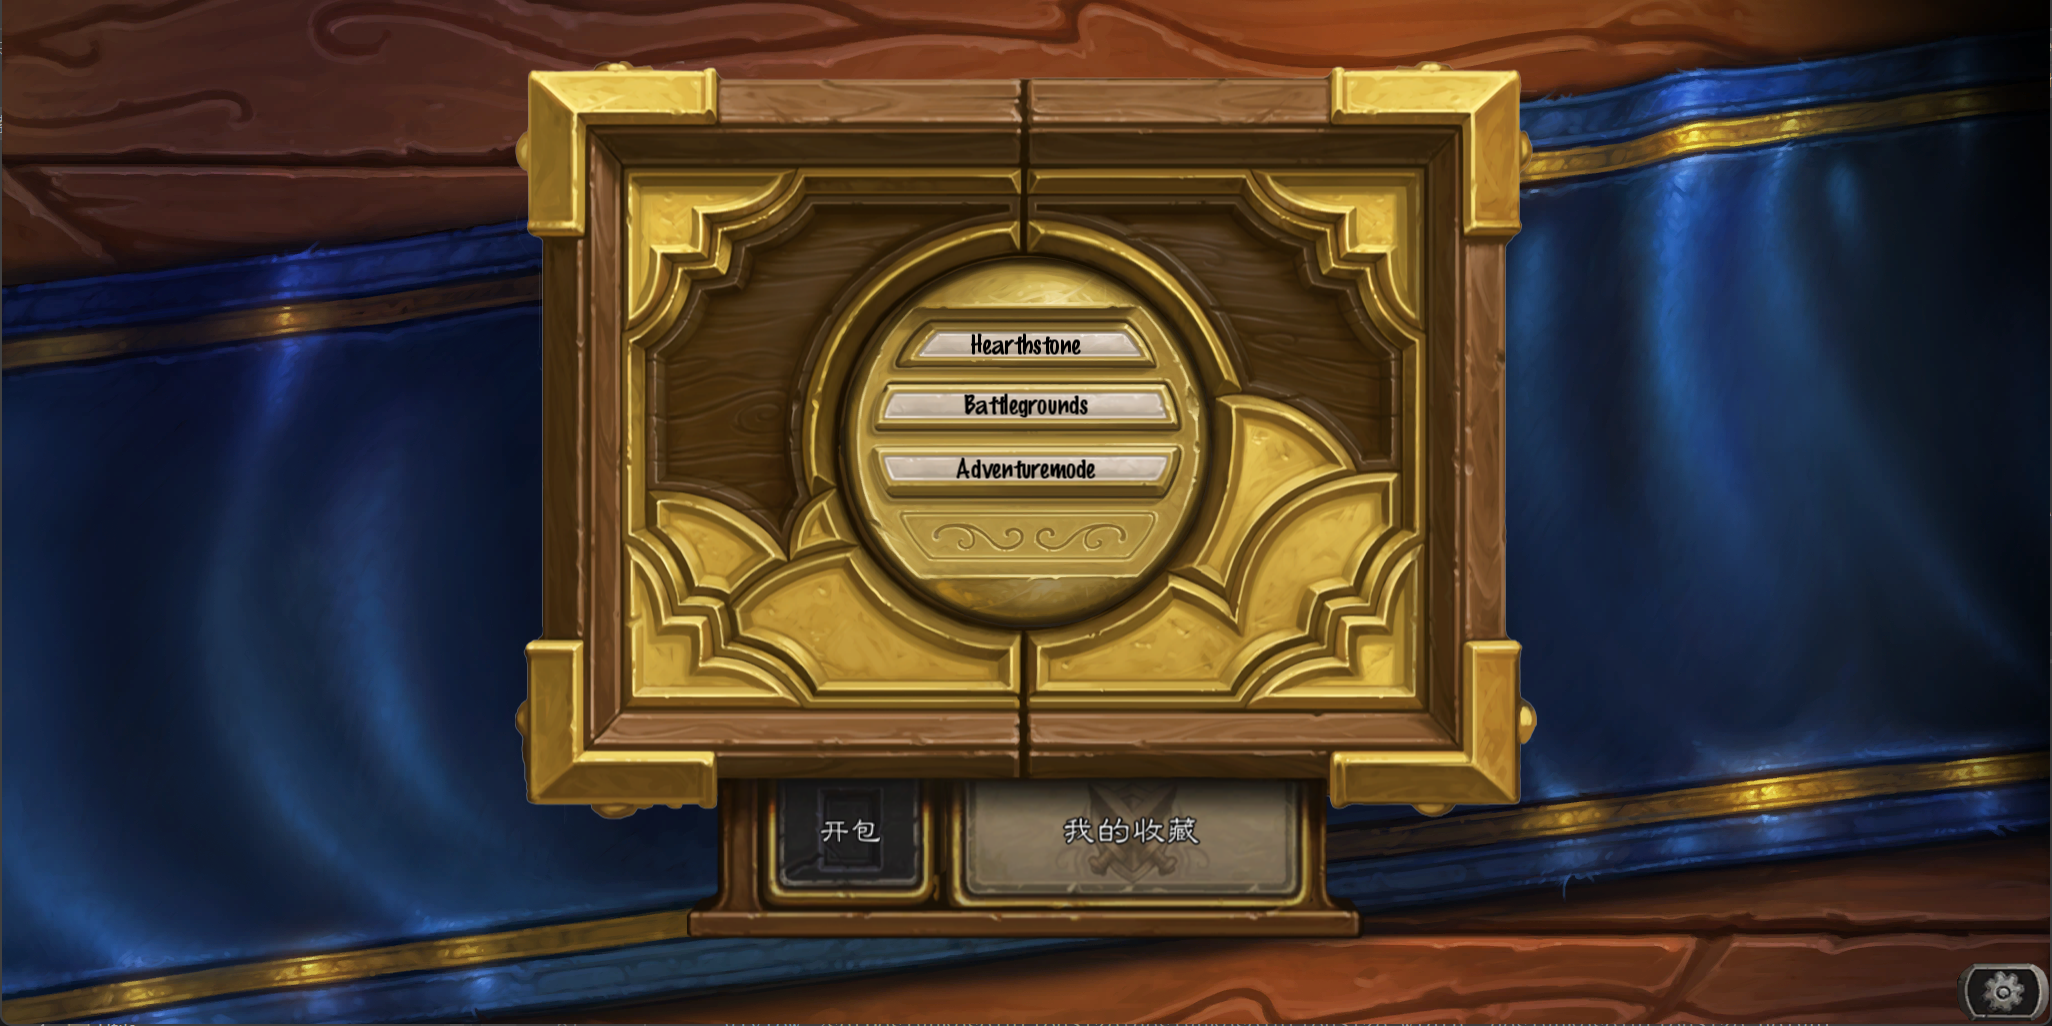
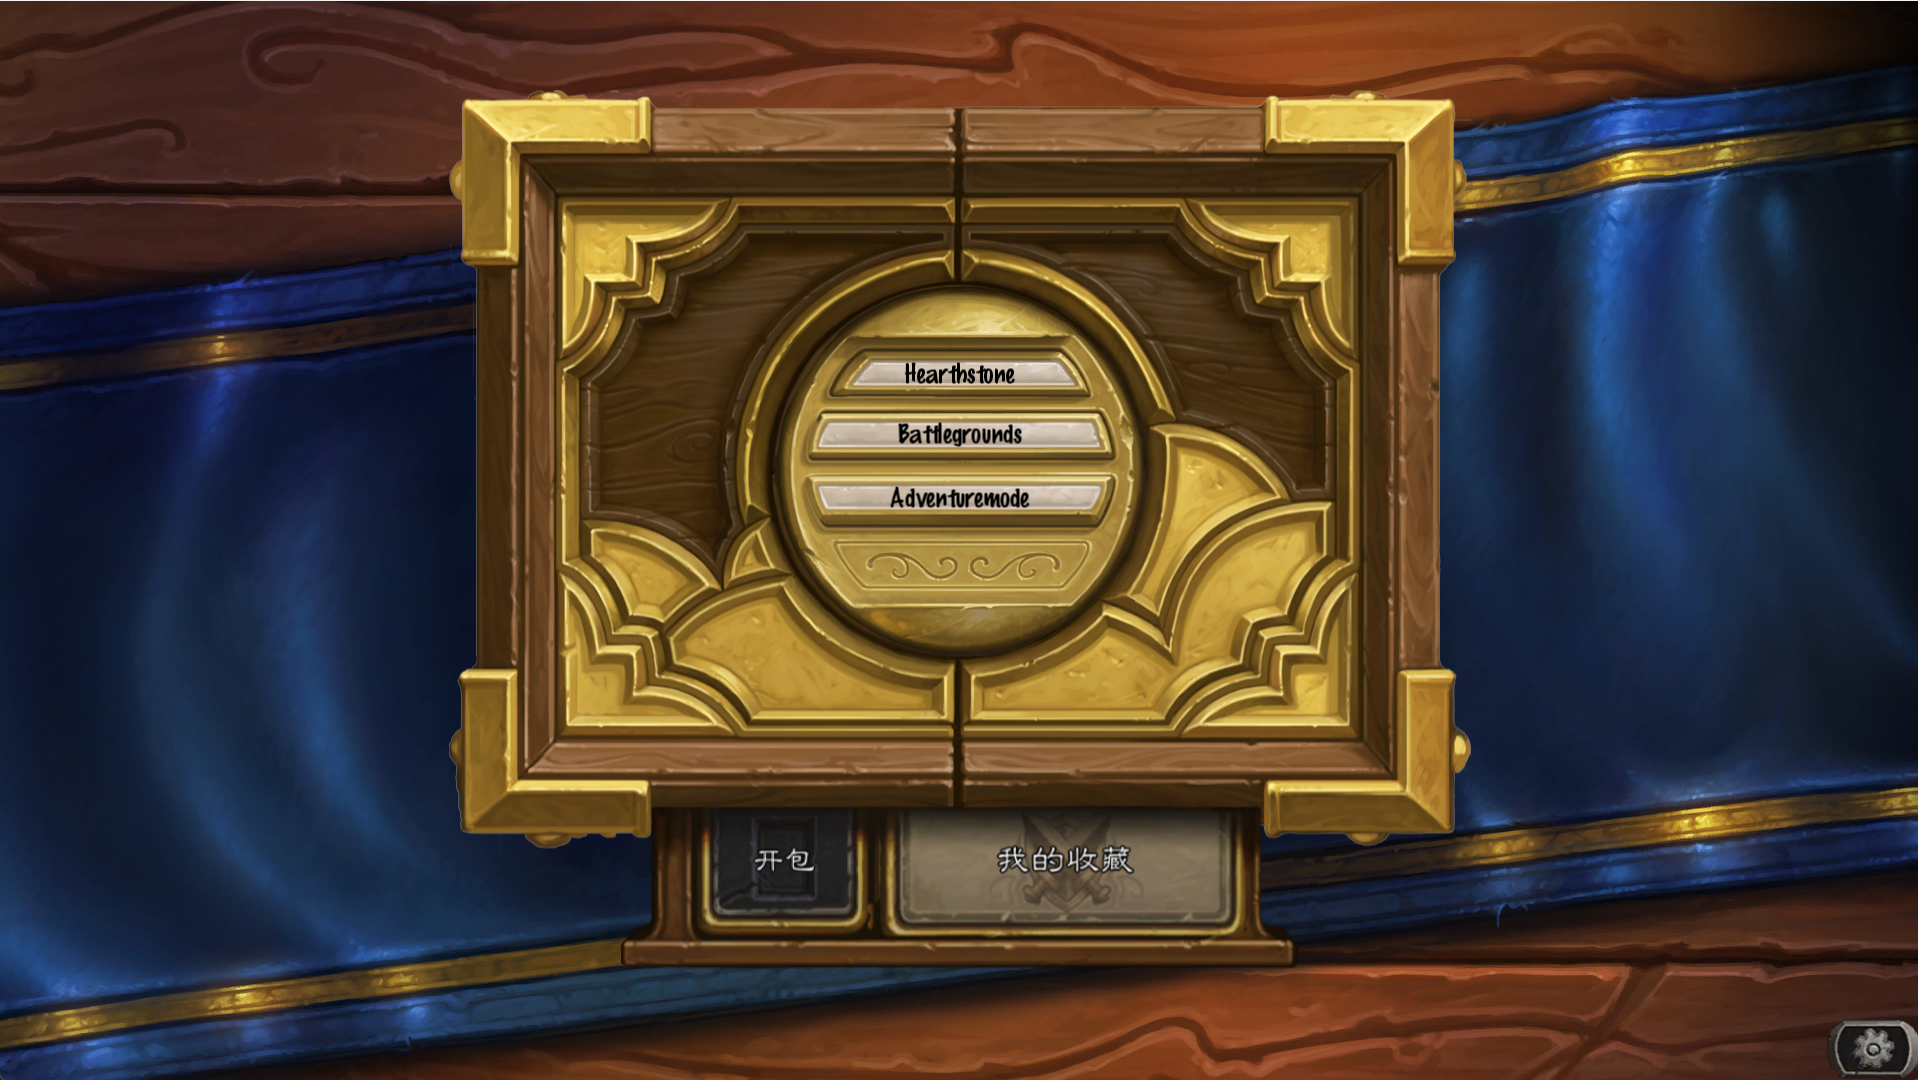
12.1更新
补充了卡牌收藏的基本框架以及背景、基本按钮等，现待做：列举卡牌、点击卡牌可放大观看等功能；将对战界面的整体背景大小、按钮位置及其外观、英雄血量和法力值的显示位置进行调整，并更改了面板随从占用的空间大小（由900*200->1100*200），更改了整体游戏的分辨率大小，由2048*1024改为了一般游戏的默认分辨率1920*1080，防止后续显示出现问题

diff --git a/Classes/Scene/GameScene.cpp b/Classes/Scene/GameScene.cpp
@@ -31,6 +31,7 @@ bool GameScene::init() {
     this->schedule(CC_SCHEDULE_SELECTOR(GameScene::updateUI), 1.0f);
     return true;  // 初始化成功
 }
+
 void GameScene::initGame() {
     // 发初始手牌
     for (int i = 0; i < 3; i++) {  // 初始3张手牌
@@ -38,9 +39,10 @@ void GameScene::initGame() {
         createCardSprite("card_" + std::to_string(i + 1), false);  // 对手手牌
     }
 }
+
 // 初始化游戏层级
 void GameScene::initLayers() {
-    Size visibleSize = Director::getInstance()->getVisibleSize();  // 2048x1024
+    Size visibleSize = Director::getInstance()->getVisibleSize();  // 1920x1080
 
     // 1. 创建游戏主层和背景（居中显示）
     _gameLayer = Node::create();
@@ -49,7 +51,7 @@ void GameScene::initLayers() {
     // 添加游戏层背景图片（全屏大小）
     auto gameLayerBg = Sprite::create("backgrounds/game_board.png");
     if (gameLayerBg) {
-        gameLayerBg->setContentSize(Size(visibleSize.width, visibleSize.height));  // 2048x1024
+        gameLayerBg->setContentSize(Size(visibleSize.width, visibleSize.height));  // 1920x1080
         gameLayerBg->setPosition(Vec2::ZERO);  // 相对于_gameLayer中心点
         _gameLayer->addChild(gameLayerBg, -1);
     }
@@ -83,8 +85,8 @@ void GameScene::initLayers() {
     _playerField->setPosition(Vec2(0, -70));  // 相对于游戏层中心向下70像素
     auto playerFieldArea = DrawNode::create();
     playerFieldArea->drawRect(
-        Vec2(-450, -100),  // 左下角坐标
-        Vec2(450, 100),    // 右上角坐标，总大小900x200
+        Vec2(-550, -100),  // 左下角坐标
+        Vec2(550, 100),    // 右上角坐标，总大小900x200
         Color4F(0, 0, 1, 0.2f)  // 半透明蓝色
     );
     _playerField->addChild(playerFieldArea);
@@ -106,8 +108,8 @@ void GameScene::initLayers() {
     // 对手场地（手牌区下方）
     auto opponentFieldArea = DrawNode::create();
     opponentFieldArea->drawRect(
-        Vec2(-450, -100),  // 左下角坐标
-        Vec2(450, 100),    // 右上角坐标，总大小900x200
+        Vec2(-550, -100),  // 左下角坐标
+        Vec2(550, 100),    // 右上角坐标，总大小1100x200
         Color4F(1, 0.5f, 0, 0.2f)  // 半透明橙色
     );
     _opponentField->addChild(opponentFieldArea);
@@ -134,7 +136,7 @@ void GameScene::addDebugLabels() {
     playerHandLabel->setPosition(Vec2::ZERO);
     _playerHand->addChild(playerHandLabel);
 
-    auto playerFieldLabel = createLabel("Player Field\n900x200");  // 更新尺寸信息
+    auto playerFieldLabel = createLabel("Player Field\n1100x200");  // 更新尺寸信息
     playerFieldLabel->setPosition(Vec2::ZERO);
     _playerField->addChild(playerFieldLabel);
 
@@ -142,7 +144,7 @@ void GameScene::addDebugLabels() {
     opponentHandLabel->setPosition(Vec2::ZERO);
     _opponentHand->addChild(opponentHandLabel);
 
-    auto opponentFieldLabel = createLabel("Opponent Field\n900x200");  // 更新尺寸信息
+    auto opponentFieldLabel = createLabel("Opponent Field\n1100x200");  // 更新尺寸信息
     opponentFieldLabel->setPosition(Vec2::ZERO);
     _opponentField->addChild(opponentFieldLabel);
 }
@@ -153,19 +155,19 @@ void GameScene::initUI() {
 
     // 回合结束按钮（右侧中间）
     _endTurnButton = MenuItemImage::create(
-        "buttons/end_turn_normal.png",
-        "buttons/end_turn_pressed.png",
+        "buttons/Button_For_EndTheTurn_Normal.png",
+        "buttons/Button_For_EndTheTurn_Selected.png",
         CC_CALLBACK_1(GameScene::onEndTurnClicked, this)
     );
-    _endTurnButton->setPosition(Vec2(visibleSize.width - 450, visibleSize.height / 2+30));  // (1948, 512)
+    _endTurnButton->setPosition(Vec2(visibleSize.width - 275, visibleSize.height / 2+30));  // (1948, 512)
 
     // 设置按钮（左上角）
     _settingsButton = MenuItemImage::create(
-        "buttons/settings_normal.png",
-        "buttons/settings_pressed.png",
+        "buttons/Setting_Button_Normal.png",
+        "buttons/Setting_Button_Selected.png",
         CC_CALLBACK_1(GameScene::onSettingsClicked, this)
     );
-    _settingsButton->setPosition(Vec2(50, visibleSize.height - 50));  // (50, 974)
+    _settingsButton->setPosition(Vec2(visibleSize.width- _settingsButton->getContentSize().width/2, _settingsButton->getContentSize().height / 2));  
 
     // 添加玩家英雄技能（头像右侧）
     _playerHeroPower = MenuItemImage::create(
@@ -173,7 +175,7 @@ void GameScene::initUI() {
         "heroes/hero_power_pressed.png",
         CC_CALLBACK_1(GameScene::onHeroPowerClicked, this)
     );
-    _playerHeroPower->setPosition(Vec2(visibleSize.width / 2 + 170, 250));  // 头像右侧100像素
+    _playerHeroPower->setPosition(Vec2(visibleSize.width / 2 + 185, 250));  // 头像右侧100像素
     _playerHeroPower->setScale(0.7f);
 
     // 更新菜单，包含英雄技能按钮
@@ -185,23 +187,25 @@ void GameScene::initUI() {
 
     // 回合计时器标签（回合结束按钮上方）
     _turnTimerLabel = Label::createWithTTF("90", "fonts/arial.ttf", 32);
-    _turnTimerLabel->setPosition(Vec2(visibleSize.width - 450, visibleSize.height / 2 + 80));  // (1948, 562)
+    _turnTimerLabel->setPosition(Vec2(visibleSize.width - 275, visibleSize.height / 2 + 80));  // (1948, 562)
     _uiLayer->addChild(_turnTimerLabel);
 
     // 玩家信息标签（左下角）
     _playerManaLabel = Label::createWithTTF("0/0", "fonts/arial.ttf", 24);     // 法力值
-    _playerHealthLabel = Label::createWithTTF("30", "fonts/arial.ttf", 24);    // 生命值
-    _playerManaLabel->setPosition(Vec2(100, 100));      // (100, 100)
-    _playerHealthLabel->setPosition(Vec2(100, 150));    // (100, 150)
-    _uiLayer->addChild(_playerManaLabel);
-    _uiLayer->addChild(_playerHealthLabel);
+    _playerHealthLabel = Label::createWithTTF("30", "fonts/arial.ttf", 35);    // 生命值
+    _playerManaLabel->setPosition(Vec2(1320, 95));      // (100, 100)
+    _playerHealthLabel->setPosition(Vec2(visibleSize.width / 2 + 60, 200));  
+    //_playerManaLabel->setTextColor(Color4B(0, 0, 0, 255));
+    //_playerHealthLabel->setTextColor(Color4B(0, 0, 0, 255));
+    _uiLayer->addChild(_playerManaLabel,2);
+    _uiLayer->addChild(_playerHealthLabel,2);
 
     // 添加玩家头像（正下方）
     auto playerHeroPortrait = Sprite::create("heroes/player_portrait.png");
     if (playerHeroPortrait) {
-        playerHeroPortrait->setPosition(Vec2(visibleSize.width / 2-8, 265));  // x=1024, y=120
+        playerHeroPortrait->setPosition(Vec2(visibleSize.width / 2+20, 265));  // x=1024, y=120
         playerHeroPortrait->setScale(0.8f);
-        _uiLayer->addChild(playerHeroPortrait);
+        _uiLayer->addChild(playerHeroPortrait,0);
 
         // 玩家生命值显示（头像下方）
         _playerHealthLabel = Label::createWithTTF("30", "fonts/arial.ttf", 24);
@@ -217,7 +221,7 @@ void GameScene::initUI() {
 
         // 对手生命值显示（头像上方）
         auto opponentHealth = Label::createWithTTF("30", "fonts/arial.ttf", 24);
-        opponentHealth->setPosition(Vec2(visibleSize.width / 2, visibleSize.height - 80));
+        opponentHealth->setPosition(Vec2(visibleSize.width / 2, visibleSize.height - 95));
         _uiLayer->addChild(opponentHealth);
     }
 
@@ -236,7 +240,7 @@ void GameScene::initUI() {
 
     // 对手法力水晶显示（头像左侧）
     auto opponentMana = Label::createWithTTF("0/0", "fonts/arial.ttf", 24);
-    opponentMana->setPosition(Vec2(visibleSize.width / 2 - 100, visibleSize.height - 120));
+    opponentMana->setPosition(Vec2(1280, visibleSize.height - 95));
     _uiLayer->addChild(opponentMana);
 
     // 初始化回合相关变量
@@ -245,6 +249,17 @@ void GameScene::initUI() {
 
     // 启动回合计时器
     this->schedule(CC_SCHEDULE_SELECTOR(GameScene::updateTurnTimer), 1.0f);
+
+    //添加卡牌库里的卡牌图片（结束按键上下两侧，双方都有）
+    float offset = 135.0f;                                          //卡牌库相对于结束回合按钮的偏移量y方向
+    auto playerCardsLibrary = Sprite::create("Cards/Cards_Library.png");
+    playerCardsLibrary->setPosition(Vec2(visibleSize.width - 185, visibleSize.height / 2 + 30- offset));
+    _uiLayer->addChild(playerCardsLibrary, 1);
+
+    auto opponentCardsLibrary = Sprite::create("Cards/Cards_Library.png");
+    opponentCardsLibrary->setPosition(Vec2(visibleSize.width - 185, visibleSize.height / 2 + 30 + offset));
+    _uiLayer->addChild(opponentCardsLibrary, 1);
+
 }
 // 4. 卡牌相关方法
 // 创建卡牌精灵

diff --git a/Classes/Scene/MenuScene.cpp b/Classes/Scene/MenuScene.cpp
@@ -3,6 +3,7 @@
 #include "Utils/Constants.h"
 #include "Audio/AudioManager.h"
 #include "Settingscene1.h"
+#include "DeckBuilderScene.h"
 
 USING_NS_CC;
 // 创建场景的静态方法
@@ -167,6 +168,8 @@ void MenuScene::onDeckBuilder(Ref* sender) {
     AudioManager::getInstance()->playEffect(GameConstants::Sound::ENTER_MYCOLLECTION);
     // TODO: 实现卡组构建场景切换
 
+    auto scene = DeckBuilderScene::createScene();
+    Director::getInstance()->replaceScene(TransitionFade::create(0.5f, scene));
 
 }
 

diff --git a/Classes/Utils/Constants.h b/Classes/Utils/Constants.h
@@ -29,6 +29,7 @@ namespace GameConstants {
         const char* const BUTTON_PRESSED = "buttons/button_pressed.png";
         const char* const BACKGROUND = "backgrounds/game_bg.png";
         const char* const BACKGROUND_SETTING = "backgrounds/Background_For_Setting.png";
+        const char* const BACKGROUND_DECKBUILDER = "backgrounds/Background_For_DeckBuilder.png";
         const char* const FONT_PATH = "fonts/arial.ttf";
     }
 
